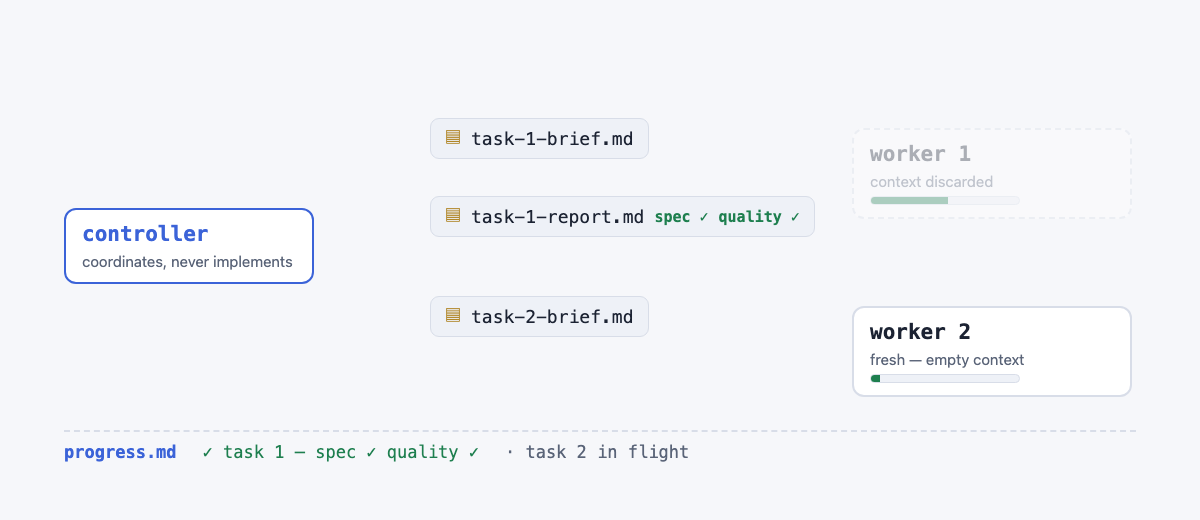
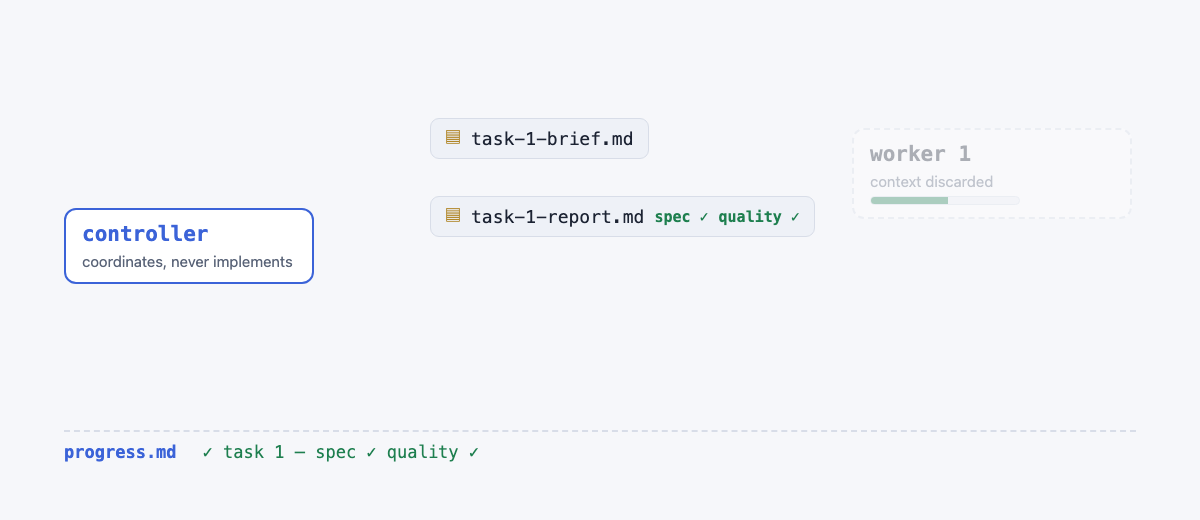
feat(site): enrich the explainer video — strategies, dimensions, external CLIs
Keeps the original two beats (the problem + the staged run, still the poster)
and appends four reader-paced beats: the nine strategies (the option space),
composing a run with the dimension knobs (review/models/isolation/trigger/
budget), external coding CLIs dispatched as sandboxed workers (xcli), and a
close. Reader-first timing throughout — each beat holds long enough to read
before the next. 15s -> 48s. Runtime pack untouched.

Claude-Session: https://claude.ai/code/session_011U8C4MVmndcV899s2zieTg

Changed region(s): [[0.7092, 0.5846, 0.925, 0.7692], [0.37, 0.5846, 0.5242, 0.6462], [0.4317, 0.8615, 0.5858, 0.8923]]

diff --git a/remotion/src/LifeOfATask.tsx b/remotion/src/LifeOfATask.tsx
@@ -275,7 +275,7 @@ const Stamp: React.FC<{ t: Theme; frame: number; at: number; label: string }> = 
 };
 
 const Stage: React.FC<{ t: Theme; frame: number }> = ({ t, frame }) => {
-  const opacity = io(frame, [98, 122], [0, 1]);
+  const opacity = io(frame, [98, 122], [0, 1]) * io(frame, [452, 470], [1, 0]);
   if (opacity <= 0.01) return null;
 
   // traveling chips: brief 1 (controller → lane), report 1 (worker → lane),
@@ -396,8 +396,275 @@ const Stage: React.FC<{ t: Theme; frame: number }> = ({ t, frame }) => {
   );
 };
 
+// ---------- shared header for the added beats ----------
+
+const BeatHead: React.FC<{ t: Theme; frame: number; from: number; kicker: string; title: string }> = ({
+  t,
+  frame,
+  from,
+  kicker,
+  title,
+}) => (
+  <div style={{ position: "absolute", top: 26, left: 0, right: 0, textAlign: "center", opacity: io(frame, [from, from + 16], [0, 1]) }}>
+    <div style={{ fontFamily: SANS, textTransform: "uppercase", letterSpacing: "0.16em", fontWeight: 600, fontSize: 15, color: t.accent }}>
+      {kicker}
+    </div>
+    <div style={{ fontFamily: MONO, fontSize: 26, color: t.ink, marginTop: 6, letterSpacing: "-0.01em" }}>{title}</div>
+  </div>
+);
+
+// ---------- beat 3: nine strategies (the option space) ----------
+
+const STRATS: [string, string][] = [
+  ["staged", "sequential tasks · dual review"],
+  ["parallel", "concurrent · isolated worktrees"],
+  ["hierarchical", "domain sub-orchestrators"],
+  ["team", "workers message & debate"],
+  ["workflow", "deterministic script fan-out"],
+  ["loop", "repeat until goal / schedule"],
+  ["advisor", "costly reasoning ↔ cheap exec"],
+  ["adversarial", "challenge the plan first"],
+  ["xcli", "external coding CLIs as workers"],
+];
+
+const Strategies: React.FC<{ t: Theme; frame: number }> = ({ t, frame }) => {
+  const S = 470;
+  const opacity = io(frame, [S, S + 18], [0, 1]) * io(frame, [720, 740], [1, 0]);
+  if (opacity <= 0.01) return null;
+  return (
+    <AbsoluteFill style={{ opacity }}>
+      <BeatHead t={t} frame={frame} from={S} kicker="one mechanic · nine strategies" title="pick the shape the work needs" />
+      {STRATS.map(([name, desc], i) => {
+        const col = i % 3;
+        const row = Math.floor(i / 3);
+        const from = S + 20 + i * 8;
+        const o = io(frame, [from, from + 12], [0, 1]);
+        const seen = name === "staged";
+        const isXcli = name === "xcli";
+        const edge = seen || isXcli ? t.accent : t.line;
+        return (
+          <div
+            key={name}
+            style={{
+              position: "absolute",
+              left: 80 + col * 356,
+              top: 122 + row * 118,
+              width: 332,
+              height: 96,
+              opacity: o,
+              scale: String(io(frame, [from, from + 12], [0.92, 1])),
+              background: t.panel,
+              border: `1.5px solid ${edge}`,
+              borderRadius: 12,
+              padding: "14px 18px",
+              display: "flex",
+              flexDirection: "column",
+              gap: 8,
+            }}
+          >
+            <div style={{ display: "flex", alignItems: "center", gap: 10 }}>
+              <span style={{ fontFamily: MONO, fontSize: 20, fontWeight: 600, color: seen || isXcli ? t.accent : t.ink }}>{name}</span>
+              {seen ? (
+                <span style={{ fontFamily: SANS, fontSize: 12, color: t.muted, border: `1px solid ${t.line}`, borderRadius: 20, padding: "1px 9px" }}>just saw</span>
+              ) : null}
+            </div>
+            <div style={{ fontFamily: SANS, fontSize: 15, color: t.muted, whiteSpace: "nowrap" }}>{desc}</div>
+          </div>
+        );
+      })}
+      <Caption t={t} frame={frame} from={S + 34} to={738}>
+        <b style={{ color: t.ink }}>staged</b> is one of nine — same controller, different topology.
+      </Caption>
+    </AbsoluteFill>
+  );
+};
+
+// ---------- beat 4: compose the run (the dimensions) ----------
+
+const KNOBS: [string, string][] = [
+  ["review", "off · spec · quality · dual · panel:N · consensus:N"],
+  ["models", "pin a tier per role — never inherit a default"],
+  ["isolation", "worktree · branch — parallel writers never collide"],
+  ["trigger", "once · goal · interval · schedule"],
+  ["budget", "cap cycles · agents · tokens · open PRs"],
+];
+
+const Dimensions: React.FC<{ t: Theme; frame: number }> = ({ t, frame }) => {
+  const S = 744;
+  const opacity = io(frame, [S, S + 18], [0, 1]) * io(frame, [980, 1000], [1, 0]);
+  if (opacity <= 0.01) return null;
+  const cmdOp = io(frame, [S + 14, S + 34], [0, 1]);
+  return (
+    <AbsoluteFill style={{ opacity }}>
+      <BeatHead t={t} frame={frame} from={S} kicker="one invocation · every knob" title="compose the run" />
+      <div
+        style={{
+          position: "absolute",
+          top: 104,
+          left: 80,
+          right: 80,
+          background: t.codeBg,
+          border: `1px solid ${t.line}`,
+          borderRadius: 10,
+          padding: "13px 18px",
+          fontFamily: MONO,
+          fontSize: 18,
+          opacity: cmdOp,
+          whiteSpace: "nowrap",
+          overflow: "hidden",
+        }}
+      >
+        <span style={{ color: t.accent, fontWeight: 600 }}>/orchestrate</span>
+        <span style={{ color: t.ink }}> plan.md </span>
+        <span style={{ color: t.muted }}>strategy=</span>
+        <span style={{ color: t.ink }}>parallel </span>
+        <span style={{ color: t.muted }}>review=</span>
+        <span style={{ color: t.ink }}>panel:3 </span>
+        <span style={{ color: t.muted }}>isolation=</span>
+        <span style={{ color: t.ink }}>worktree</span>
+      </div>
+      {KNOBS.map(([k, v], i) => {
+        const from = S + 40 + i * 8;
+        const o = io(frame, [from, from + 12], [0, 1]);
+        return (
+          <div
+            key={k}
+            style={{
+              position: "absolute",
+              left: 80,
+              right: 80,
+              top: 182 + i * 54,
+              opacity: o,
+              translate: `${io(frame, [from, from + 12], [-14, 0])}px 0`,
+              display: "flex",
+              alignItems: "center",
+              gap: 18,
+            }}
+          >
+            <div style={{ fontFamily: MONO, fontSize: 18, fontWeight: 600, color: t.accent, width: 120 }}>{k}</div>
+            <div style={{ fontFamily: SANS, fontSize: 17, color: t.muted }}>{v}</div>
+          </div>
+        );
+      })}
+      <Caption t={t} frame={frame} from={S + 40} to={998}>
+        Typed gates in fixed order · a model pinned per dispatch · caps on every loop.
+      </Caption>
+    </AbsoluteFill>
+  );
+};
+
+// ---------- beat 5: external CLIs (xcli) ----------
+
+const ENGINES = ["codex", "grok", "cursor", "agy", "opencode", "hermes", "kimi"];
+
+const Xcli: React.FC<{ t: Theme; frame: number }> = ({ t, frame }) => {
+  const S = 1004;
+  const opacity = io(frame, [S, S + 18], [0, 1]) * io(frame, [1270, 1292], [1, 0]);
+  if (opacity <= 0.01) return null;
+  const panelOp = io(frame, [S + 20, S + 40], [0, 1]);
+  return (
+    <AbsoluteFill style={{ opacity }}>
+      <BeatHead t={t} frame={frame} from={S} kicker="workers · not just claude" title="external CLIs, first-class" />
+      <Box
+        t={t}
+        title="controller"
+        sub="pins an engine per dispatch"
+        color={t.accent}
+        x={72}
+        y={214}
+        w={244}
+        opacity={io(frame, [S + 12, S + 30], [0, 1])}
+        scale={io(frame, [S + 12, S + 30], [0.9, 1])}
+      />
+      <div style={{ position: "absolute", left: 330, top: 246, fontFamily: MONO, fontSize: 34, color: t.accent, opacity: io(frame, [S + 26, S + 46], [0, 1]) }}>→</div>
+      <div
+        style={{
+          position: "absolute",
+          left: 400,
+          top: 112,
+          right: 72,
+          height: 300,
+          background: t.panel,
+          border: `1.5px solid ${t.line}`,
+          borderRadius: 14,
+          padding: "18px 22px",
+          opacity: panelOp,
+        }}
+      >
+        <div style={{ fontFamily: SANS, textTransform: "uppercase", letterSpacing: "0.1em", fontWeight: 600, fontSize: 13, color: t.muted, marginBottom: 16 }}>
+          external coding CLIs · each in its own worktree
+        </div>
+        <div style={{ display: "flex", flexWrap: "wrap", gap: 12 }}>
+          {ENGINES.map((e, i) => {
+            const from = S + 26 + i * 9;
+            const o = io(frame, [from, from + 12], [0, 1]);
+            return (
+              <div
+                key={e}
+                style={{
+                  opacity: o,
+                  scale: String(io(frame, [from, from + 12], [0.85, 1])),
+                  fontFamily: MONO,
+                  fontSize: 19,
+                  color: t.ink,
+                  background: t.codeBg,
+                  border: `1.5px dashed ${t.accent}`,
+                  borderRadius: 9,
+                  padding: "9px 15px",
+                }}
+              >
+                {e}
+              </div>
+            );
+          })}
+        </div>
+        <div style={{ marginTop: 26, display: "flex", alignItems: "center", gap: 14, opacity: io(frame, [S + 120, S + 140], [0, 1]) }}>
+          <span style={{ fontFamily: MONO, fontSize: 17, color: t.good, fontWeight: 600 }}>→ results captured</span>
+          <span style={{ fontFamily: MONO, fontSize: 16, color: t.ink, background: t.codeBg, border: `1px solid ${t.line}`, borderRadius: 8, padding: "6px 12px" }}>
+            <span style={{ color: t.file }}>▤</span> run/ on disk
+          </span>
+          <span style={{ fontFamily: SANS, fontSize: 15, color: t.muted }}>· as workers, peers, or a second opinion</span>
+        </div>
+      </div>
+      <Caption t={t} frame={frame} from={S + 40} to={1290}>
+        Workers don&rsquo;t have to be Claude — dispatch <b style={{ color: t.ink }}>any coding CLI</b>, each sandboxed, results captured.
+      </Caption>
+    </AbsoluteFill>
+  );
+};
+
+// ---------- beat 6: close ----------
+
+const Close: React.FC<{ t: Theme; frame: number }> = ({ t, frame }) => {
+  const S = 1296;
+  const opacity = io(frame, [S, S + 20], [0, 1]) * io(frame, [1420, 1440], [1, 0]);
+  if (opacity <= 0.01) return null;
+  return (
+    <AbsoluteFill style={{ opacity, alignItems: "center", justifyContent: "center" }}>
+      <div style={{ textAlign: "center" }}>
+        <div style={{ fontFamily: MONO, fontSize: 36, color: t.ink, letterSpacing: "-0.01em" }}>coordinate — don&rsquo;t implement</div>
+        <div style={{ fontFamily: SANS, fontSize: 20, color: t.muted, marginTop: 16, maxWidth: 860 }}>
+          the controller dispatches; fresh agents work; every run is a folder you can read.
+        </div>
+        <div style={{ fontFamily: MONO, fontSize: 16, color: t.accent, marginTop: 24, opacity: io(frame, [S + 30, S + 52], [0, 1]) }}>
+          $orchestrate&nbsp;&nbsp;·&nbsp;&nbsp;/orchestrate&nbsp;&nbsp;·&nbsp;&nbsp;@orchestrate
+        </div>
+      </div>
+    </AbsoluteFill>
+  );
+};
+
 // ---------- composition ----------
 
+// Reader-first pacing: each beat animates in, HOLDS long enough to read, then fades out before the
+// next begins. Beats 1–2 (Problem, Stage) are the original life-of-a-task; 3–6 enrich it with the
+// strategy space, the dimension knobs, external-CLI workers, and a close. 48s, loops.
+//   B1 problem      0–113
+//   B2 stage        98–470     (the staged strategy — the poster beat)
+//   B3 strategies   470–740    nine strategies
+//   B4 dimensions   744–1000   compose the run
+//   B5 xcli         1004–1292  external CLIs, first-class
+//   B6 close        1296–1440
 export const LifeOfATask: React.FC<{ theme: ThemeName }> = ({ theme }) => {
   const frame = useCurrentFrame();
   const t = themes[theme];
@@ -405,6 +672,10 @@ export const LifeOfATask: React.FC<{ theme: ThemeName }> = ({ theme }) => {
     <AbsoluteFill style={{ background: t.bg }}>
       <Problem t={t} frame={frame} />
       <Stage t={t} frame={frame} />
+      <Strategies t={t} frame={frame} />
+      <Dimensions t={t} frame={frame} />
+      <Xcli t={t} frame={frame} />
+      <Close t={t} frame={frame} />
     </AbsoluteFill>
   );
 };

diff --git a/remotion/src/Root.tsx b/remotion/src/Root.tsx
@@ -14,7 +14,7 @@ export const RemotionRoot: React.FC = () => {
       component={LifeOfATask}
       schema={schema}
       defaultProps={{ theme: "light" as const }}
-      durationInFrames={450}
+      durationInFrames={1440}
       fps={30}
       width={1200}
       height={520}

diff --git a/site/index.html b/site/index.html
@@ -659,7 +659,7 @@ npx skills add gabros20/orchestrate-skill -g
   v.autoplay = true;
   v.playsInline = true;
   v.setAttribute("playsinline", "");
-  v.setAttribute("aria-label", "Animated: a controller writes brief files, fresh workers return reports and are discarded, gates stamp each report, and the ledger records every task.");
+  v.setAttribute("aria-label", "Animated explainer: a controller writes brief files, fresh workers return reports and are discarded, gates stamp each report, and a ledger records every task; then the skill's nine strategies, the composable run dimensions (review, models, isolation, trigger, budget), and dispatching external coding CLIs as sandboxed workers.");
   function apply() {
     var theme = document.documentElement.getAttribute("data-theme") || (mq.matches ? "dark" : "light");
     v.poster = "assets/life-of-a-task-" + theme + "-poster.png";